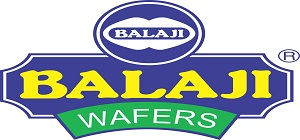
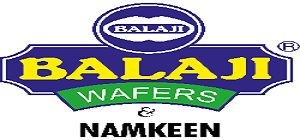
Added new spons

diff --git a/public/ourTeam/sponsors.html b/public/ourTeam/sponsors.html
@@ -5710,6 +5710,63 @@
 												</div>
 												<!-- ROW ENDS -->
 
+												<!--ROW STARTS-->
+												<div class="row mt-5 wow ">
+														<!--First column-->
+														<div class="col-lg-4 wow fadeIn" data-wow-delay="0.2s">
+																<u><h3>SMS Partner</h3></u>
+																<a href="http://www.domainadda.com/" target="_blank">
+											<img src="spons2017/domainadda.jpg" class="img-responsive" alt="Domain Adda"/>
+									</a>
+									<h3>Domain Adda</h3>
+														</div>
+
+											<div class="col-lg-4 wow fadeIn" data-wow-delay="0.2s">
+																<u><h3>Candy Partner</h3></u>
+																<a href="http://falero.in/" target="_blank">
+											<img src="spons2017/falero.jpg" class="img-responsive" alt="Falero"/>
+									</a>
+									<h3>Falero</h3>
+														</div>
+
+											<div class="col-lg-4 wow fadeIn" data-wow-delay="0.2s">
+																<u><h3>Snacks Partner</h3></u>
+																<a href="http://www.haldirams.com/" target="_blank">
+											<img src="spons2017/haldirams.jpg" class="img-responsive" alt="Haldirams"/>
+									</a>
+									<h3>Haldirams</h3>
+														</div>
+														
+												</div>
+
+												<div class="row mt-5 wow ">
+														<!--First column-->
+														<div class="col-lg-4 wow fadeIn" data-wow-delay="0.2s">
+																<u><h3>Wafer Partner</h3></u>
+																<a href="http://www.balajiwafers.com/" target="_blank">
+											<img src="spons2017/balaji.jpg" class="img-responsive" alt="Balaji Wafers"/>
+									</a>
+									<h3>Balaji Wafers</h3>
+														</div>
+
+											<!-- <div class="col-lg-4 wow fadeIn" data-wow-delay="0.2s">
+																<u><h3>Candy Partner</h3></u>
+																<a href="http://falero.in/" target="_blank">
+											<img src="spons2017/falero.jpg" class="img-responsive" alt="Falero"/>
+									</a>
+									<h3>Falero</h3>
+														</div> -->
+
+											<!-- <div class="col-lg-4 wow fadeIn" data-wow-delay="0.2s">
+																<u><h3>Snacks Partner</h3></u>
+																<a href="http://www.haldirams.com/" target="_blank">
+											<img src="spons2017/haldirams.jpg" class="img-responsive" alt="Haldirams"/>
+									</a>
+									<h3>Haldirams</h3>
+														</div> -->
+														
+												</div>
+
 												<br/>
 												<u><h3>Outdoor Media Partners</h3></u>
 												<!--ROW STARTS-->
@@ -5887,7 +5944,7 @@
 														<div class="col-lg-4 wow fadeIn" data-wow-delay="0.2s">
 																	<h3></h3>
 									<a href="http://atkt.in/" target="_blank">
-											<img src="spons2017/atkt.jpg" class="img-responsive" alt="ATKT.IN"/>
+											<img src="spons2017/ATKT.jpg" class="img-responsive" alt="ATKT.IN"/>
 									</a>
 									<h3>ATKT.in</h3>
 														</div>
